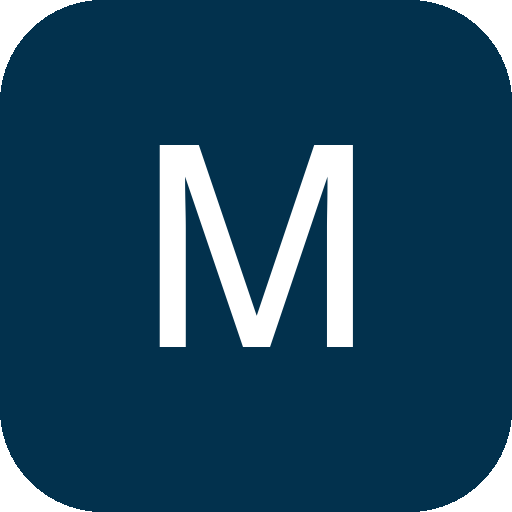
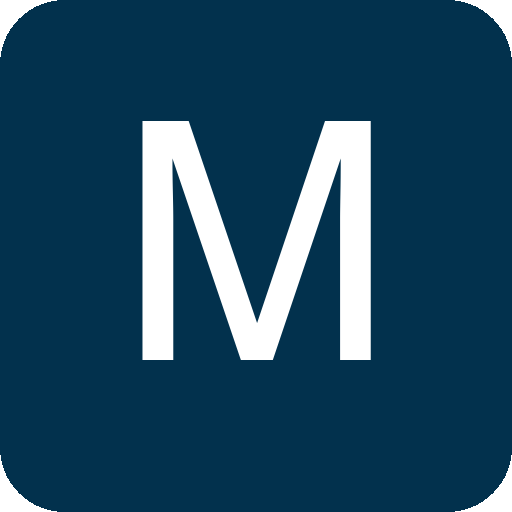
V0.6.1bh: 1)周小结更新时间显示完整时分秒; 2)PWA图标圆角减小+M字母放大，Dock显示更大

diff --git a/js/modules/mbo.js b/js/modules/mbo.js
@@ -3599,7 +3599,8 @@ function saveWPFeedback(field, value) {
   
   if (field === 'weekSummary') {
     p.weekSummary = value;
-    p.weekSummaryUpdatedAt = new Date().toISOString().split('T')[0];
+    var now = new Date();
+    p.weekSummaryUpdatedAt = now.getFullYear()+'-'+String(now.getMonth()+1).padStart(2,'0')+'-'+String(now.getDate()).padStart(2,'0')+' '+String(now.getHours()).padStart(2,'0')+':'+String(now.getMinutes()).padStart(2,'0')+':'+String(now.getSeconds()).padStart(2,'0');
   } else if (field === 'supervisorReview') {
     if (!p.supervisorReview) p.supervisorReview = {};
     p.supervisorReview.content = value;

diff --git a/app.html b/app.html
@@ -6,8 +6,8 @@
 <meta http-equiv="Cache-Control" content="no-cache, no-store, must-revalidate">
 <meta http-equiv="Pragma" content="no-cache">
 <meta http-equiv="Expires" content="0">
-<meta name="version" content="V0.6.1bg">
-<!-- cache-bust: 2026-07-12-15-10 -->
+<meta name="version" content="V0.6.1bh">
+<!-- cache-bust: 2026-07-12-15-15 -->
 <meta name="theme-color" content="#02314D">
 <link rel="manifest" href="manifest.json?v=bc">
 <meta name="apple-mobile-web-app-capable" content="yes">
